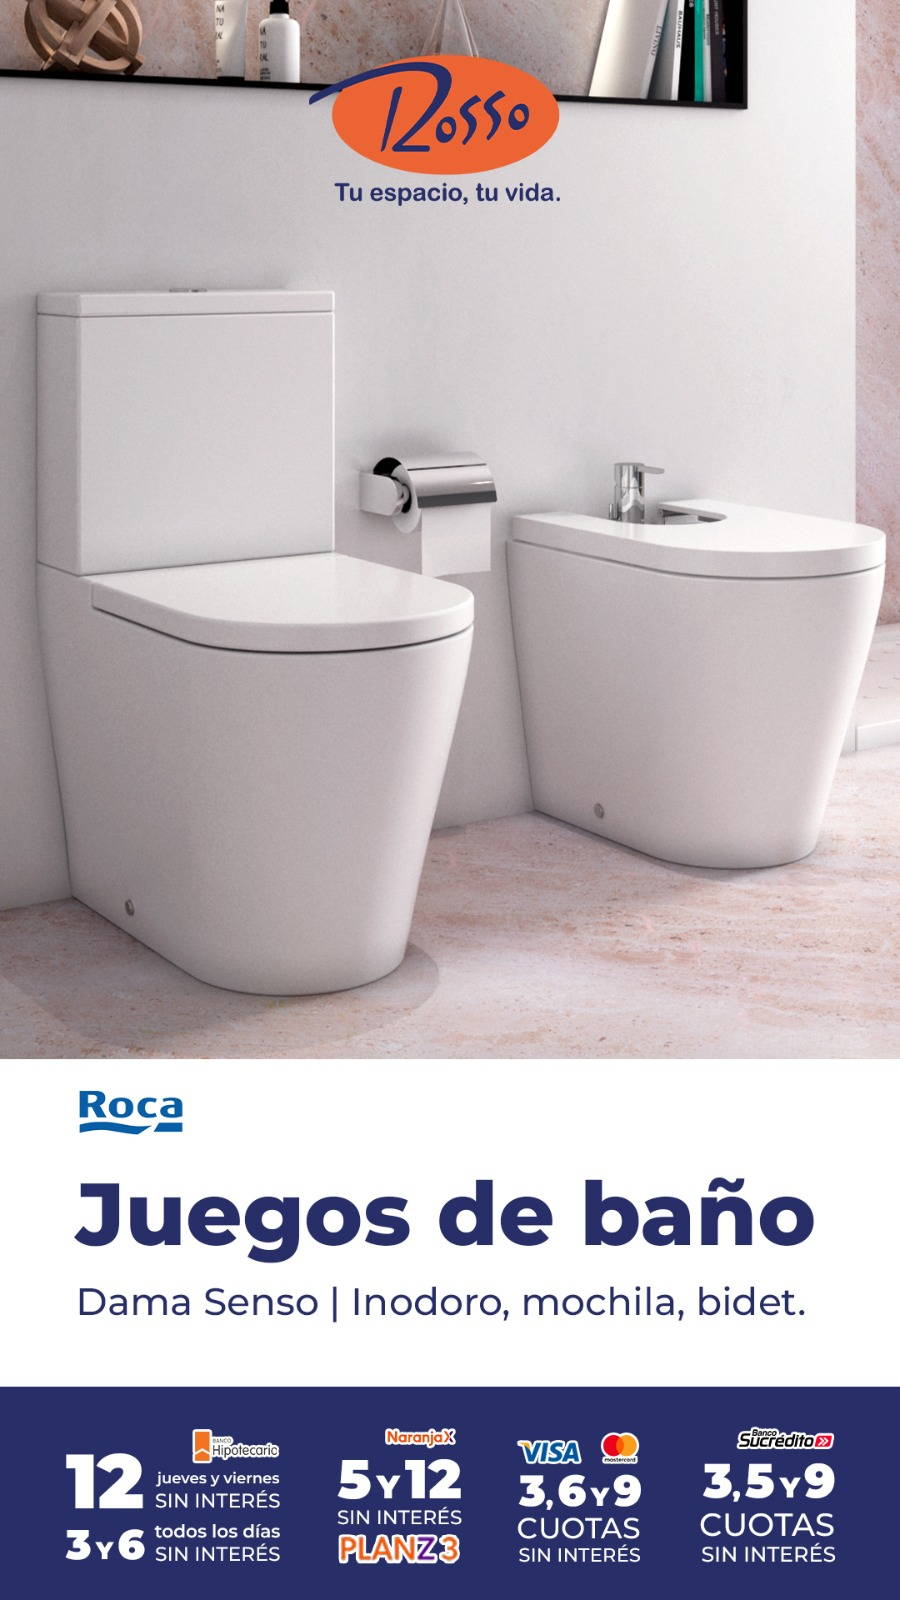
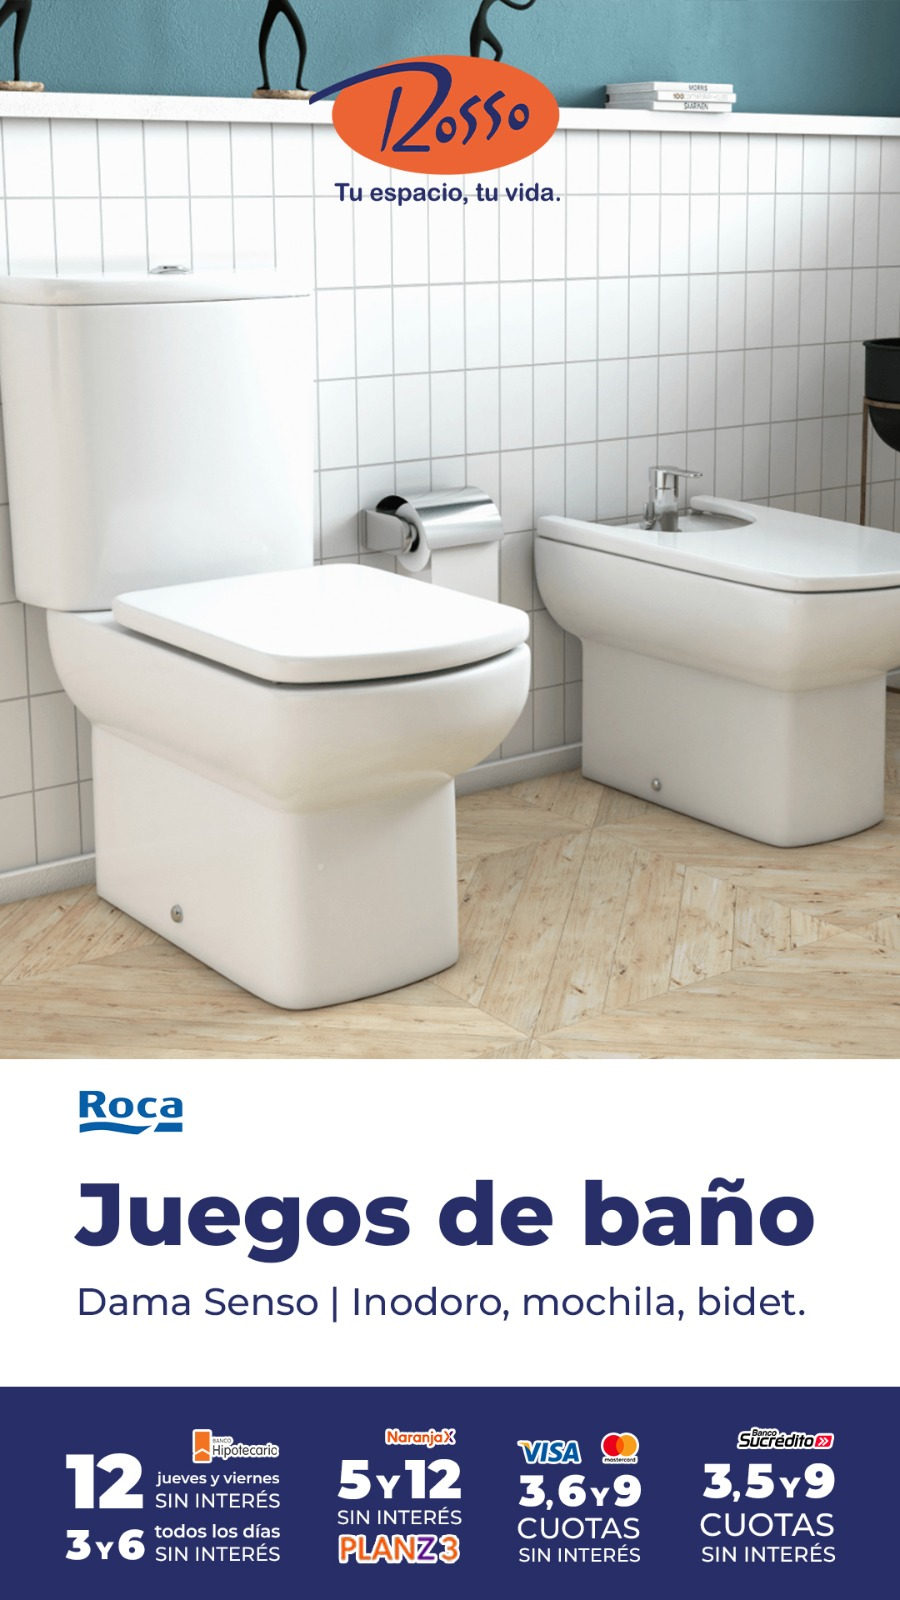
promos

diff --git a/index.html b/index.html
@@ -64,6 +64,9 @@
             <img src="assets/1Q/5.jpeg" class="d-block w-100" alt="...">
           </div>
           <div class="carousel-item ">
+            <img src="assets/LLAMADORES/WhatsApp Image 2025-06-03 at 9.20.02 AM.jpeg" class="d-block w-100" alt="...">
+          </div>
+          <div class="carousel-item ">
             <img src="assets/LLAMADORES/l1.jpeg" class="d-block w-100" alt="...">
           </div>
           <div class="carousel-item">
